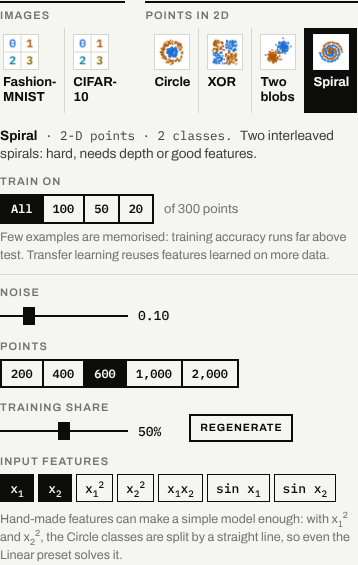
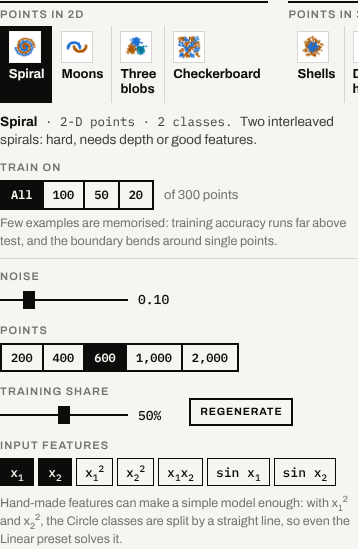
WIP: picker keeps focus on updates, compact strip, snap-aligned reveal
Train-on, point-count and feature controls update in place instead of being
rebuilt, so a pressed button keeps keyboard focus. The strip is tighter at
1600 px, hyphenated names no longer split, and the playground note uses a
3-D example on 3-D data. Mistake rings in 07 are slightly see-through.

Claude-Session: https://claude.ai/code/session_01XbEHJLkrJr1cYYoamFRkmb

Changed region(s): [[0.0, 0.0, 1.0, 0.9909], [0.3687, 0.5264, 0.4916, 0.5883]]

diff --git a/src/ui/datasetPicker.ts b/src/ui/datasetPicker.ts
@@ -15,7 +15,9 @@ import { classColor, onThemeChange, palette } from './theme';
  * for point datasets the generator settings and input features (as in the TensorFlow Playground).
  */
 
-const PREVIEW = 36;
+const PREVIEW = 32;
+/** Matches .dsp-index's scroll-padding: where a snapped item's left edge sits. */
+const SNAP_PAD = 6;
 const GROUPS: DatasetInfo['group'][] = ['Images', 'Points in 2D', 'Points in 3D'];
 const IMAGE_LIMITS = [null, 5_000, 1_000, 200];
 const POINT_LIMITS = [null, 100, 50, 20];
@@ -70,6 +72,16 @@ export function project3(x: number, y: number, z: number): [number, number] {
   return [u, z * Math.cos(el) - depth * Math.sin(el)];
 }
 
+/** A dataset name that wraps only at spaces ("Fashion-MNIST" and "CIFAR-10" never split at the hyphen). */
+function nameEl(name: string): HTMLElement {
+  const el = h('span', { class: 'dsp-name' });
+  name.split(' ').forEach((w, i) => {
+    if (i) el.append(' ');
+    el.append(w.includes('-') ? h('span', { class: 'dsp-word' }, w) : w);
+  });
+  return el;
+}
+
 interface Item {
   info: DatasetInfo;
   btn: HTMLButtonElement;
@@ -100,7 +112,7 @@ export function mountDatasetPicker(): void {
         'button',
         { type: 'button', class: 'dsp-item', 'data-id': info.id, 'aria-pressed': 'false', 'aria-describedby': desc.id, tabindex: '-1' },
         canvas,
-        h('span', { class: 'dsp-name' }, info.name),
+        nameEl(info.name),
         progress,
       ) as HTMLButtonElement;
       btn.addEventListener('click', () => choose(info.id));
@@ -155,22 +167,33 @@ export function mountDatasetPicker(): void {
   const trainHint = h('p', { class: 'hint dsp-train-hint' });
   const train = h('div', { class: 'dsp-train' }, h('span', { class: 'label' }, 'Train on'), h('div', { class: 'dsp-train-row' }, trainSeg, trainUnit), trainHint);
 
+  let trainKind = '';
+  const trainButtons: { v: number | null; b: HTMLButtonElement }[] = [];
   const renderTrain = () => {
     const info = store.info;
-    const limits = limitsFor(info);
     const full = fullTrainCount(info);
-    clear(trainSeg);
-    for (const v of limits) {
-      const b = h('button', { type: 'button', 'aria-pressed': String(store.trainLimit === v) }, v === null ? 'All' : int(v));
-      b.addEventListener('click', () => {
-        if (store.trainLimit === v) return;
-        setTrainLimit(v);
-        renderTrain();
-      });
-      trainSeg.append(b);
+    // Rebuilt only when the choices change (images ↔ points), so a pressed button keeps its focus.
+    if (trainKind !== info.kind) {
+      trainKind = info.kind;
+      clear(trainSeg);
+      trainButtons.length = 0;
+      for (const v of limitsFor(info)) {
+        const b = h('button', { type: 'button', 'aria-pressed': 'false' }, v === null ? 'All' : int(v)) as HTMLButtonElement;
+        b.addEventListener('click', () => {
+          if (store.trainLimit === v) return;
+          setTrainLimit(v);
+          renderTrain();
+        });
+        trainButtons.push({ v, b });
+        trainSeg.append(b);
+      }
     }
+    for (const { v, b } of trainButtons) b.setAttribute('aria-pressed', String(store.trainLimit === v));
     trainUnit.textContent = `of ${int(full)} ${noun(info, full)}`;
-    trainHint.textContent = 'Few examples are memorised: training accuracy runs far above test. Transfer learning reuses features learned on more data.';
+    trainHint.textContent =
+      info.kind === 'image'
+        ? 'Few examples are memorised: training accuracy runs far above test. Transfer learning reuses features learned on more data.'
+        : 'Few examples are memorised: training accuracy runs far above test, and the boundary bends around single points.';
   };
 
   // ── Point-data controls ──
@@ -202,15 +225,16 @@ export function mountDatasetPicker(): void {
   const share = slider('dsp-share', 'Training share', 0.1, 0.9, 0.1, () => store.pointsConfig.trainRatio, (v) => `${Math.round(v * 100)}%`, (v) => setPointsConfig({ trainRatio: v }));
 
   const countSeg = h('div', { class: 'seg dsp-seg', role: 'group', 'aria-labelledby': 'dsp-count-label' });
+  const countButtons = POINT_COUNTS.map((n) => {
+    const b = h('button', { type: 'button', 'aria-pressed': 'false' }, int(n)) as HTMLButtonElement;
+    b.addEventListener('click', () => {
+      if (store.pointsConfig.count !== n) setPointsConfig({ count: n });
+    });
+    countSeg.append(b);
+    return { n, b };
+  });
   const renderCount = () => {
-    clear(countSeg);
-    for (const n of POINT_COUNTS) {
-      const b = h('button', { type: 'button', 'aria-pressed': String(store.pointsConfig.count === n) }, int(n));
-      b.addEventListener('click', () => {
-        if (store.pointsConfig.count !== n) setPointsConfig({ count: n });
-      });
-      countSeg.append(b);
-    }
+    for (const { n, b } of countButtons) b.setAttribute('aria-pressed', String(store.pointsConfig.count === n));
   };
 
   const regen = h('button', { type: 'button', class: 'btn btn-sm', id: 'dsp-regenerate', title: 'Draw a new random sample with the same settings' }, 'Regenerate');
@@ -222,43 +246,49 @@ export function mountDatasetPicker(): void {
     clear(featNote);
     featNote.append(mathLabel(text));
   };
-  const playground =
-    'Hand-made features can make a simple model enough: with x₁² and x₂², the Circle classes are split by a straight line, so even the Linear preset solves it.';
+  // The Playground's lesson, with an example in the current number of dimensions.
+  const playground = () =>
+    store.info.dims === 3
+      ? 'Hand-made features can make a simple model enough: with x₁², x₂² and x₃², the ball and the shell of Shells are split by a flat plane, so even the Linear preset solves it.'
+      : 'Hand-made features can make a simple model enough: with x₁² and x₂², the Circle classes are split by a straight line, so even the Linear preset solves it.';
+  let featDims = 0;
+  const featButtons: { id: string; title: string; b: HTMLButtonElement }[] = [];
   const renderFeatures = () => {
-    clear(feats);
     const info = store.info;
     if (info.kind !== 'points') return;
+    const dims = info.dims!;
+    if (featDims !== dims) {
+      // Built once per dimension, then updated in place, so a toggled chip keeps its focus.
+      featDims = dims;
+      clear(feats);
+      featButtons.length = 0;
+      for (const f of featureCatalog(dims)) {
+        const b = h('button', { type: 'button', class: 'ds-feat', 'aria-pressed': 'false', 'aria-label': f.label, 'data-feature': f.id }, mathLabel(f.label)) as HTMLButtonElement;
+        b.addEventListener('click', () => {
+          const now = new Set(store.features);
+          if (now.has(f.id)) {
+            if (now.size === 1) {
+              note('Keep at least one feature on: the network needs an input.');
+              return;
+            }
+            now.delete(f.id);
+          } else now.add(f.id);
+          // Keep the catalogue order, so the inputs always appear in the same order.
+          setFeatures(featureCatalog(dims).map((d) => d.id).filter((id) => now.has(id)));
+          note(playground());
+        });
+        featButtons.push({ id: f.id, title: f.title, b });
+        feats.append(b);
+      }
+    }
     const on = new Set(store.features);
-    for (const f of featureCatalog(info.dims!)) {
-      const pressed = on.has(f.id);
+    for (const { id, title, b } of featButtons) {
+      const pressed = on.has(id);
       const last = pressed && on.size === 1;
-      const b = h(
-        'button',
-        {
-          type: 'button',
-          class: 'ds-feat',
-          'aria-pressed': String(pressed),
-          'aria-disabled': last ? 'true' : undefined,
-          'aria-label': f.label,
-          title: last ? `${f.title}. Keep at least one feature on.` : f.title,
-          'data-feature': f.id,
-        },
-        mathLabel(f.label),
-      );
-      b.addEventListener('click', () => {
-        const now = new Set(store.features);
-        if (now.has(f.id)) {
-          if (now.size === 1) {
-            note('Keep at least one feature on: the network needs an input.');
-            return;
-          }
-          now.delete(f.id);
-        } else now.add(f.id);
-        // Keep the catalogue order, so the inputs always appear in the same order.
-        setFeatures(featureCatalog(info.dims!).map((d) => d.id).filter((id) => now.has(id)));
-        note(playground);
-      });
-      feats.append(b);
+      b.setAttribute('aria-pressed', String(pressed));
+      if (last) b.setAttribute('aria-disabled', 'true');
+      else b.removeAttribute('aria-disabled');
+      b.title = last ? `${title}. Keep at least one feature on.` : title;
     }
   };
 
@@ -381,7 +411,7 @@ export function mountDatasetPicker(): void {
     share.sync();
     renderCount();
     renderFeatures();
-    if (!featNote.textContent || featNote.textContent.startsWith('Keep')) note(playground);
+    note(playground());
   };
 
   const onDataset = () => {
@@ -409,8 +439,8 @@ export function mountDatasetPicker(): void {
     if (!btn) return;
     const ir = index.getBoundingClientRect();
     const br = btn.getBoundingClientRect();
-    if (br.left < ir.left) index.scrollLeft += br.left - ir.left - 8;
-    else if (br.right > ir.right) index.scrollLeft += br.right - ir.right + 8;
+    // Aligned at its start, which is also where the strip's scroll snapping would put it.
+    if (br.left < ir.left || br.right > ir.right) index.scrollLeft += br.left - ir.left - SNAP_PAD;
   };
   let lastWidth = 0;
   if (typeof ResizeObserver !== 'undefined') {

diff --git a/src/ui/datasetPicker.css b/src/ui/datasetPicker.css
@@ -3,7 +3,7 @@
 
 .dsp {
   display: grid;
-  gap: 10px;
+  gap: 8px;
   min-width: 0;
 }
 
@@ -15,9 +15,10 @@
   overflow-x: auto;
   overscroll-behavior-x: contain;
   scroll-snap-type: x proximity;
+  scroll-padding-inline: 6px;
   scrollbar-width: thin;
   /* Room for the focus outline of the first and last item. */
-  padding: 0 6px 6px;
+  padding: 0 6px 4px;
   margin: 0 -6px -2px;
 }
 
@@ -35,7 +36,7 @@
   left: 0;
   width: max-content;
   margin: 0;
-  padding: 5px 0 4px;
+  padding: 4px 0 3px;
   font-size: 11px;
   font-weight: 600;
   letter-spacing: 0.1em;
@@ -56,9 +57,9 @@
   grid-template-rows: auto 1fr;
   justify-items: start;
   align-content: start;
-  gap: 5px;
+  gap: 4px;
   min-width: 0;
-  padding: 6px 8px 8px;
+  padding: 5px 8px 6px;
   border: 0;
   border-left: 1px solid var(--hair);
   background: transparent;
@@ -104,6 +105,11 @@
   line-height: 1.15;
   letter-spacing: -0.005em;
   text-wrap: balance;
+}
+
+/* Hyphenated names ("CIFAR-10") wrap only at spaces. */
+.dsp-word {
+  white-space: nowrap;
 }
 
 .dsp-progress {

diff --git a/src/ui/dataPanel.ts b/src/ui/dataPanel.ts
@@ -640,6 +640,9 @@ function pointPanel(): { el: HTMLElement } {
       }
       // Mistakes: a red ring around every misclassified point.
       if (wrong) {
+        // Slightly see-through, so a crowd of mistakes early in training does not hide the classes.
+        ctx.save();
+        ctx.globalAlpha = 0.75;
         ctx.strokeStyle = pal.accent;
         ctx.lineWidth = 1;
         ctx.beginPath();
@@ -652,6 +655,7 @@ function pointPanel(): { el: HTMLElement } {
           ctx.arc(x, yy, ring, 0, 2 * Math.PI);
         }
         ctx.stroke();
+        ctx.restore();
         p.stat.textContent = `${int(n)} points · ${int(k)} wrong · ${fixed((100 * (n - k)) / Math.max(1, n), 1)}% right`;
       } else p.stat.textContent = `${int(n)} points`;
       // Your points are training data: larger squares with an ink outline.
